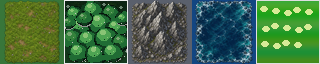
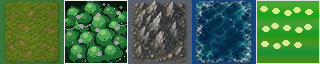
Punch up forest canopy contrast for combat-zoom readability.
Darker understory and CSS-scale accent rings so crowns stay distinct from
grass when the battlefield stage is downscaled.

diff --git a/artifacts/metal-marines/src/game/renderer.ts b/artifacts/metal-marines/src/game/renderer.ts
@@ -438,6 +438,29 @@ const drawIsland = (
         ctx.fillStyle = `rgba(20,60,30,${0.04 + n * 0.07})`;
         ctx.fillRect(px + 2, py + 2, TILE_PX - 4, TILE_PX - 4);
       }
+      // Reinforce forest canopy silhouettes when the atlas is scaled down in the CSS stage
+      if (tile.terrain === "FOREST" && drewTerrain) {
+        const clumps = [
+          [0.28, 0.3, 7],
+          [0.58, 0.26, 8],
+          [0.72, 0.55, 7],
+          [0.36, 0.68, 8],
+          [0.62, 0.78, 6],
+        ] as const;
+        for (const [rx, ry, r] of clumps) {
+          const j = terrainHash(x, y, rx + ry);
+          const cx = px + TILE_PX * rx + (j - 0.5) * 3;
+          const cy = py + TILE_PX * ry + (j - 0.5) * 2;
+          ctx.fillStyle = "rgba(4,14,8,0.35)";
+          ctx.beginPath();
+          ctx.arc(cx, cy, r + 1.5, 0, Math.PI * 2);
+          ctx.fill();
+          ctx.fillStyle = "rgba(74,222,128,0.22)";
+          ctx.beginPath();
+          ctx.arc(cx - 1.5, cy - 2, Math.max(2, r * 0.45), 0, Math.PI * 2);
+          ctx.fill();
+        }
+      }
       // Animated water shimmer / foam (battlefeel without new assets)
       if (tile.terrain === "WATER") {
         const phase = t * 2.2 + x * 0.7 + y * 0.55;

diff --git a/scripts/generate-game-atlases.py b/scripts/generate-game-atlases.py
@@ -267,10 +267,10 @@ def paint_tree_canopy(cd: ImageDraw.ImageDraw, cx: int, cy: int, r: int, lit: bo
 def paint_forest_tile(cell: Image.Image, understory: Image.Image | None = None):
     """Dense canopy forest tile readable at combat zoom (64px)."""
     cd = ImageDraw.Draw(cell)
-    # deep understory bed
+    # near-black understory so crowns pop against grass islands
     for y in range(64):
         t = y / 63
-        c = mix((12, 36, 20, 255), (22, 58, 30, 255), t)
+        c = mix((6, 22, 12, 255), (14, 40, 20, 255), t)
         cd.line([(0, y), (63, y)], fill=c)
 
     # optional hero texture: crush into dark undergrowth, never the sole silhouette
@@ -283,19 +283,19 @@ def paint_forest_tile(cell: Image.Image, understory: Image.Image | None = None):
                 if a < 20:
                     continue
                 # keep greens, darken hard so procedural crowns carry the read
-                nr = max(0, int(r * 0.25 + 8))
-                ng = max(0, int(g * 0.35 + 14))
-                nb = max(0, int(b * 0.22 + 8))
-                upx[x, y] = (nr, ng, nb, min(a, 110))
+                nr = max(0, int(r * 0.18 + 4))
+                ng = max(0, int(g * 0.28 + 8))
+                nb = max(0, int(b * 0.16 + 4))
+                upx[x, y] = (nr, ng, nb, min(a, 90))
         cell.alpha_composite(u)
 
     # brush / fern undergrowth between trunks
-    for i in range(28):
+    for i in range(22):
         bx = (i * 11 + 3) % 60 + 2
         by = (i * 17 + 7) % 58 + 3
-        cd.ellipse([bx, by, bx + 3, by + 2], fill=(20, 72, 34, 200))
+        cd.ellipse([bx, by, bx + 3, by + 2], fill=(14, 52, 24, 200))
         if i % 4 == 0:
-            cd.line([(bx + 1, by + 1), (bx + 1, by - 3)], fill=(36, 96, 44, 160))
+            cd.line([(bx + 1, by + 1), (bx + 1, by - 3)], fill=(28, 80, 36, 160))
 
     # Dense tree crowns — packed, slightly overlapping, clear silhouettes.
     # Order: back (top) to front (bottom) for simple depth.
@@ -320,11 +320,17 @@ def paint_forest_tile(cell: Image.Image, understory: Image.Image | None = None):
     for cx, cy, r, lit in trees:
         paint_tree_canopy(cd, cx, cy, r, lit)
 
+    # dark seams between crowns — critical for "trees not blobs" at distance
+    for i in range(10):
+        sx = (i * 19 + 8) % 56 + 4
+        sy = (i * 13 + 10) % 54 + 5
+        cd.ellipse([sx, sy, sx + 4, sy + 3], fill=(4, 14, 8, 160))
+
     # sparse litter / needles so the floor isn't a flat void in gaps
-    for i in range(18):
+    for i in range(14):
         lx = (i * 13 + 5) % 62
         ly = (i * 19 + 9) % 62
-        cd.point((lx, ly), fill=(90, 110, 50, 140))
+        cd.point((lx, ly), fill=(70, 90, 40, 120))
 
 
 def paint_terrain_cell(img: Image.Image, x0: int, y0: int, kind: str, pavement: Image.Image | None):
